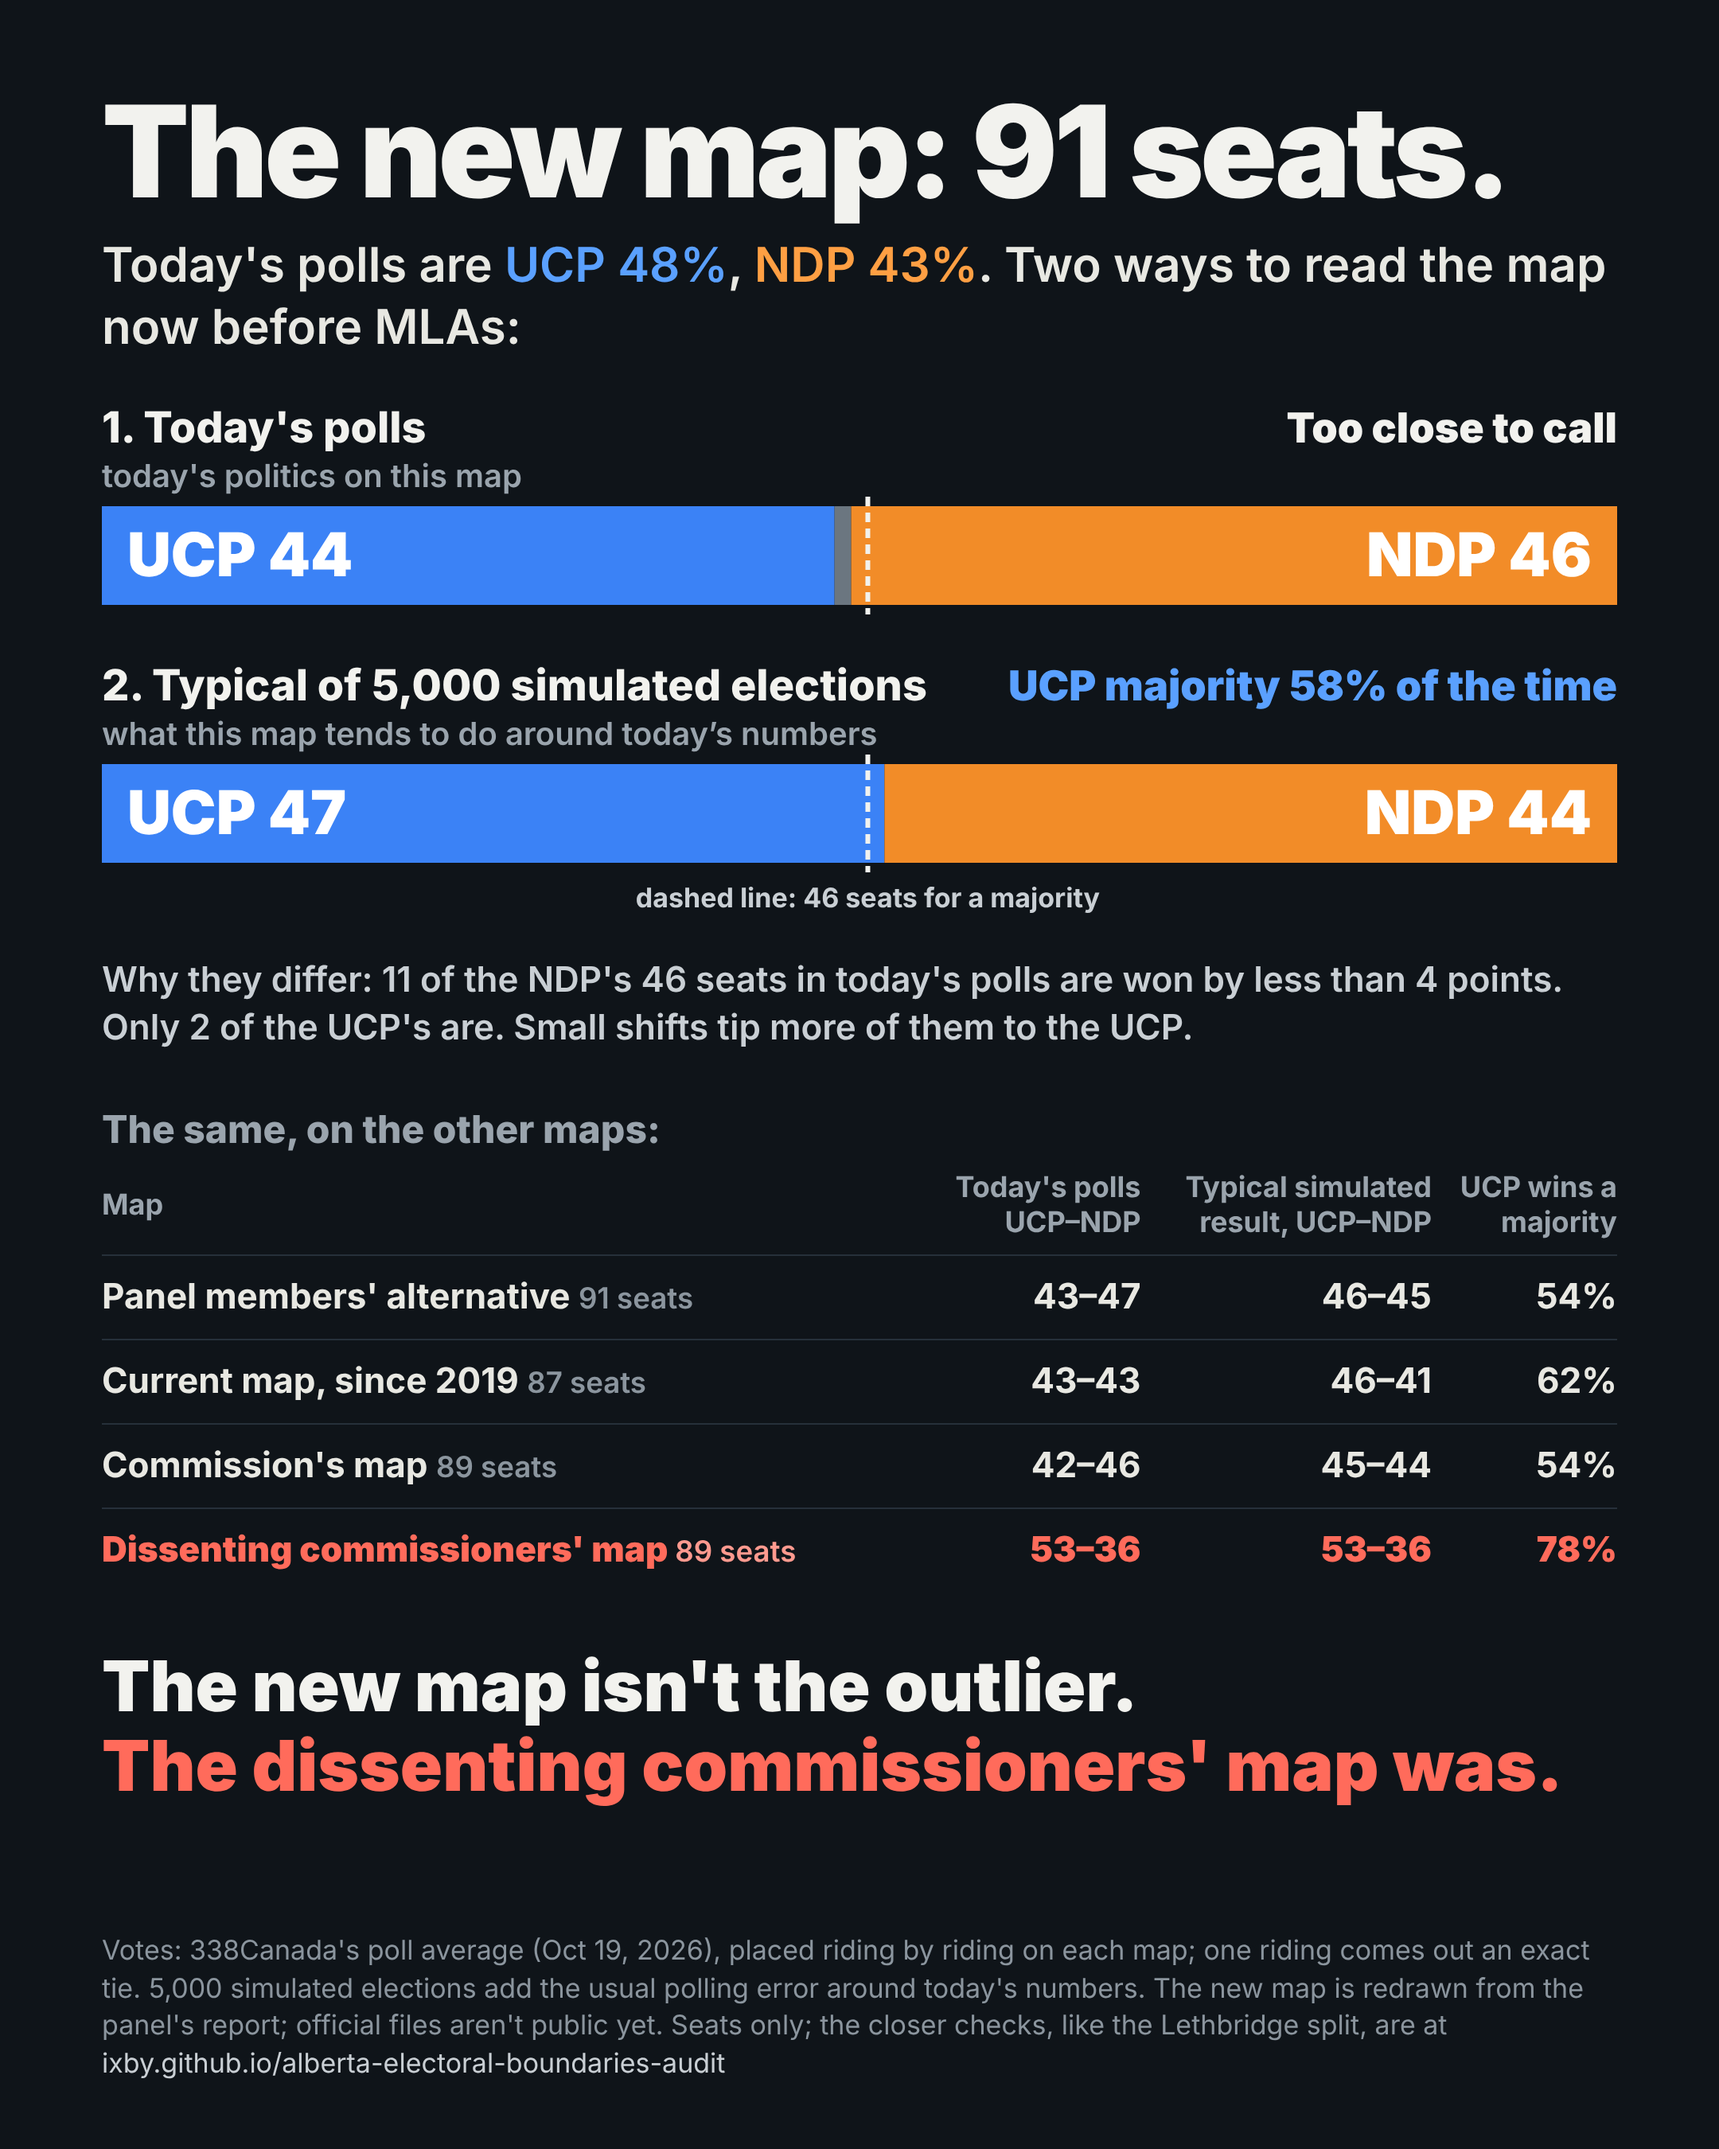
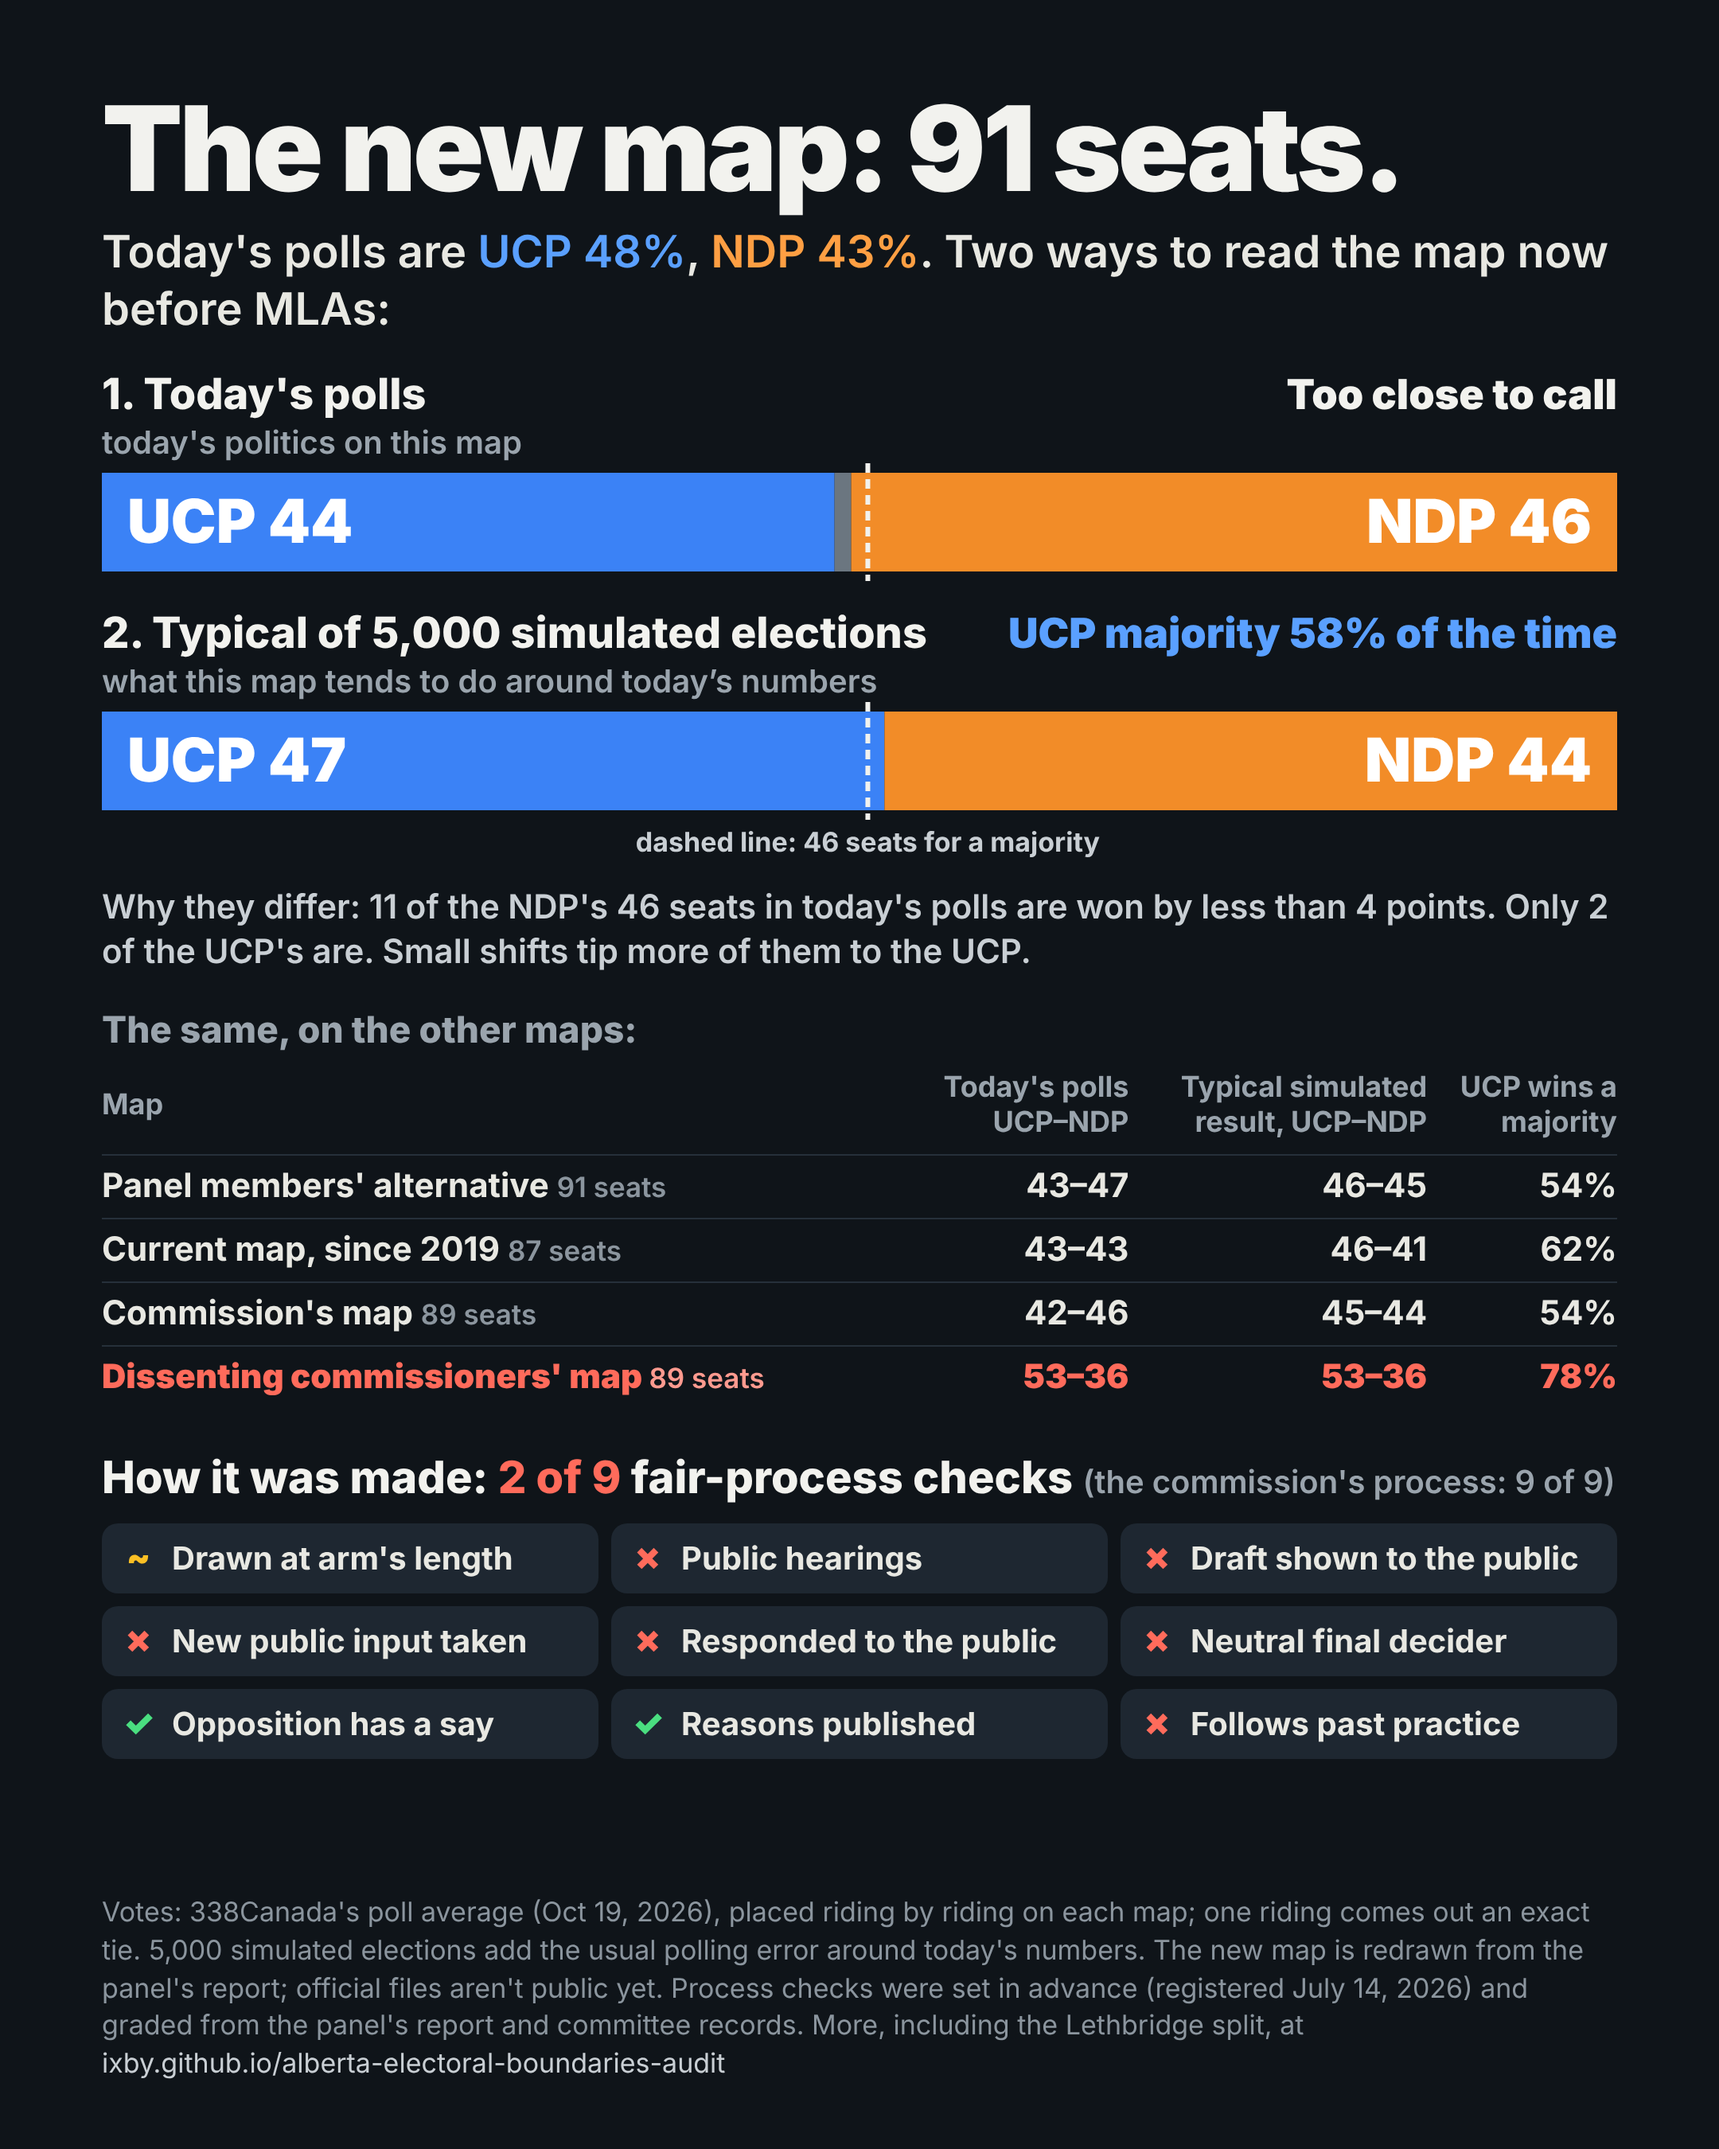
Chart: add the process scorecard (2 of 9 checks; commission 9 of 9); drop the punchline
Lower grid shows the registered Lane 3 process scorecard (OSF u47bq) as graded for the panel's
map in findings/iap_stage1_part4.md: 2 Yes, 1 Partial, 6 No, against the commission process's
9 of 9, in plain labels. The two bold punchline lines are removed at Wuff's request.

Claude-Session: https://claude.ai/code/session_018fR2piQUSLgKm3yG7SKLG7

Changed region(s): [[0.062, 0.0311, 0.9616, 0.84], [0.062, 0.8711, 0.9306, 0.9644]]

diff --git a/findings/p338_projection/meme/same_votes_five_maps.html b/findings/p338_projection/meme/same_votes_five_maps.html
@@ -7,28 +7,36 @@
   html,body{margin:0;padding:0;background:#0f1419;}
   .card{width:1080px;height:1350px;box-sizing:border-box;padding:56px 64px 40px;background:#0f1419;color:#f2f2ee;
         font-family:"Helvetica Neue",Arial,sans-serif;display:flex;flex-direction:column;}
-  h1{font-size:80px;line-height:1.0;margin:0 0 12px;font-weight:900;letter-spacing:-.03em;white-space:nowrap}
-  .q{font-size:30px;line-height:1.3;color:#e8e8e2;margin:0 0 26px;font-weight:600;}
+  h1{font-size:74px;line-height:1.0;margin:0 0 10px;font-weight:900;letter-spacing:-.03em;white-space:nowrap}
+  .q{font-size:28px;line-height:1.3;color:#e8e8e2;margin:0 0 18px;font-weight:600;}
   .q .u{color:#5aa0ff} .q .n{color:#ff9f43}
   svg{flex-shrink:0;display:block}
   svg text{font-family:"Helvetica Neue",Arial,sans-serif;}
-  .why{margin-top:14px;font-size:22px;line-height:1.35;color:#c9cfd4;font-weight:600}
-  .ref{margin-top:34px;font-size:24px;font-weight:800;color:#9aa4ad;margin-bottom:8px}
-  table{width:100%;border-collapse:collapse;font-size:22px}
+  .why{margin-top:8px;font-size:21px;line-height:1.35;color:#c9cfd4;font-weight:600}
+  .ref{margin-top:20px;font-size:23px;font-weight:800;color:#9aa4ad;margin-bottom:8px}
+  table{width:100%;border-collapse:collapse;font-size:21px}
   th{color:#9aa4ad;font-weight:700;text-align:right;padding:4px 0 8px;font-size:18px;line-height:1.2}
   th:first-child,td:first-child{text-align:left}
-  td{padding:13px 0;border-top:1px solid #26303a;text-align:right;font-weight:700;color:#e8e8e2}
+  td{padding:7px 0;border-top:1px solid #26303a;text-align:right;font-weight:700;color:#e8e8e2}
   td small{color:#8b959e;font-weight:600}
   tr.hot td{color:#ff6b5b;font-weight:900}
   tr.hot td small{color:#ff9a8f}
   .punch{margin-top:34px;font-size:44px;line-height:1.15;font-weight:900}
   .punch b{color:#ff6b5b}
+  .proc{margin-top:26px}
+  .pt{font-size:28px;font-weight:800;margin-bottom:12px}
+  .pt .bad{color:#ff6b5b}
+  .pt small{font-size:20px;color:#9aa4ad;font-weight:600}
+  .grid{display:grid;grid-template-columns:repeat(3,1fr);gap:8px}
+  .c{display:flex;align-items:center;gap:10px;padding:9px 12px;border-radius:10px;font-size:20px;font-weight:700;background:#1e2731;color:#e8e8e2}
+  .c i{font-style:normal;font-weight:900;font-size:22px;width:22px;text-align:center}
+  .c.n i{color:#ff6b5b} .c.y i{color:#4ade80} .c.p i{color:#fbbf24}
   .foot{margin-top:auto;font-size:17px;line-height:1.4;color:#8b959e;}
 </style></head>
 <body><div class="card">
   <h1>The new map: 91 seats.</h1>
   <div class="q">Today's polls are <span class="u">UCP 48%</span>, <span class="n">NDP 43%</span>. Two ways to read the map now before MLAs:</div>
-  <svg id="main" width="952" height="336" viewBox="0 0 952 336"></svg>
+  <svg id="main" width="952" height="318" viewBox="0 0 952 318"></svg>
   <div class="why">Why they differ: 11 of the NDP's 46 seats in today's polls are won by less than 4 points. Only 2 of the UCP's are. Small shifts tip more of them to the UCP.</div>
   <div class="ref">The same, on the other maps:</div>
   <table>
@@ -38,8 +46,21 @@
     <tr><td>Commission's map <small>89 seats</small></td><td>42–46</td><td>45–44</td><td>54%</td></tr>
     <tr class="hot"><td>Dissenting commissioners' map <small>89 seats</small></td><td>53–36</td><td>53–36</td><td>78%</td></tr>
   </table>
-  <div class="punch">The new map isn't the outlier.<br><b>The dissenting commissioners' map was.</b></div>
-  <div class="foot">Votes: 338Canada's poll average (Oct 19, 2026), placed riding by riding on each map; one riding comes out an exact tie. 5,000 simulated elections add the usual polling error around today's numbers. The new map is redrawn from the panel's report; official files aren't public yet. Seats only; the closer checks, like the Lethbridge split, are at <span style="white-space:nowrap;color:#c9cfd4">ixby.github.io/alberta-electoral-boundaries-audit</span></div>
+  <div class="proc">
+    <div class="pt">How it was made: <span class="bad">2 of 9</span> fair-process checks <small>(the commission's process: 9 of 9)</small></div>
+    <div class="grid">
+      <div class="c p"><i>~</i>Drawn at arm's length</div>
+      <div class="c n"><i>✗</i>Public hearings</div>
+      <div class="c n"><i>✗</i>Draft shown to the public</div>
+      <div class="c n"><i>✗</i>New public input taken</div>
+      <div class="c n"><i>✗</i>Responded to the public</div>
+      <div class="c n"><i>✗</i>Neutral final decider</div>
+      <div class="c y"><i>✓</i>Opposition has a say</div>
+      <div class="c y"><i>✓</i>Reasons published</div>
+      <div class="c n"><i>✗</i>Follows past practice</div>
+    </div>
+  </div>
+  <div class="foot">Votes: 338Canada's poll average (Oct 19, 2026), placed riding by riding on each map; one riding comes out an exact tie. 5,000 simulated elections add the usual polling error around today's numbers. The new map is redrawn from the panel's report; official files aren't public yet. Process checks were set in advance (registered July 14, 2026) and graded from the panel's report and committee records. More, including the Lethbridge split, at <span style="white-space:nowrap;color:#c9cfd4">ixby.github.io/alberta-electoral-boundaries-audit</span></div>
 </div>
 <script>
 const NS = 'http://www.w3.org/2000/svg', svg = document.getElementById('main');
@@ -59,7 +80,7 @@ function bar(y, u, t, n, title, sub, verdict, vcol) {
   el('line', {x1: NEED * s, y1: by - 6, x2: NEED * s, y2: by + h + 6, stroke: '#f2f2ee', 'stroke-width': 3, 'stroke-dasharray': '6 4'});
 }
 bar(0, 44, 1, 46, "1. Today's polls", "today's politics on this map", 'Too close to call', '#f2f2ee');
-bar(162, 47, 0, 44, '2. Typical of 5,000 simulated elections', 'what this map tends to do around today’s numbers', 'UCP majority 58% of the time', '#5aa0ff');
-el('text', {x: NEED * s, y: 318, fill: '#c9cfd4', 'font-size': 17, 'font-weight': 700, 'text-anchor': 'middle'}, 'dashed line: 46 seats for a majority');
+bar(150, 47, 0, 44, '2. Typical of 5,000 simulated elections', 'what this map tends to do around today’s numbers', 'UCP majority 58% of the time', '#5aa0ff');
+el('text', {x: NEED * s, y: 304, fill: '#c9cfd4', 'font-size': 17, 'font-weight': 700, 'text-anchor': 'middle'}, 'dashed line: 46 seats for a majority');
 </script>
 </body></html>

diff --git a/findings/p338_projection/README.md b/findings/p338_projection/README.md
@@ -161,6 +161,17 @@ All files are in this folder, `p338/sim/`.
 | Commission's map (89) | 42–46 | 45–44 | 54% |
 | Dissenting commissioners' map (89) | 53–36 | 53–36 | 78% |
 
-**Punchline:** "The new map isn't the outlier. The dissenting commissioners' map was." It holds on both readings.
+**How it was made (process scorecard):** the lower grid shows the registered Lane 3 process scorecard (OSF u47bq, filed 2026-07-14), graded for the panel's map in `findings/iap_stage1_part4.md` §1: 2 Yes, 1 Partial, 6 No. The commission's process scored 9 of 9. The grid's plain labels map to the registered cells as follows:
+- P1 Arm's-length drafting → "Drawn at arm's length" (Partial)
+- P2 → "Public hearings" (No)
+- P3 → "Draft shown to the public" (No)
+- P4 → "New public input taken" (No)
+- P5 Demonstrated responsiveness → "Responded to the public" (No)
+- P6 Neutral chair of the deciding body → "Neutral final decider" (No)
+- P7 → "Opposition has a say" (Yes)
+- P8 → "Reasons published" (Yes)
+- P9 Precedent conformity → "Follows past practice" (No)
+
+At Wuff's request this replaced the earlier punchline ("The new map isn't the outlier. The dissenting commissioners' map was."). The seat comparison still shows the new map in line with the others.
 
 The chart counts seats only, and the footer points to the audit's local checks, such as the Lethbridge split. Source: `meme/same_votes_five_maps.html`; render with `node meme/render.cjs` (Playwright, Chromium).
